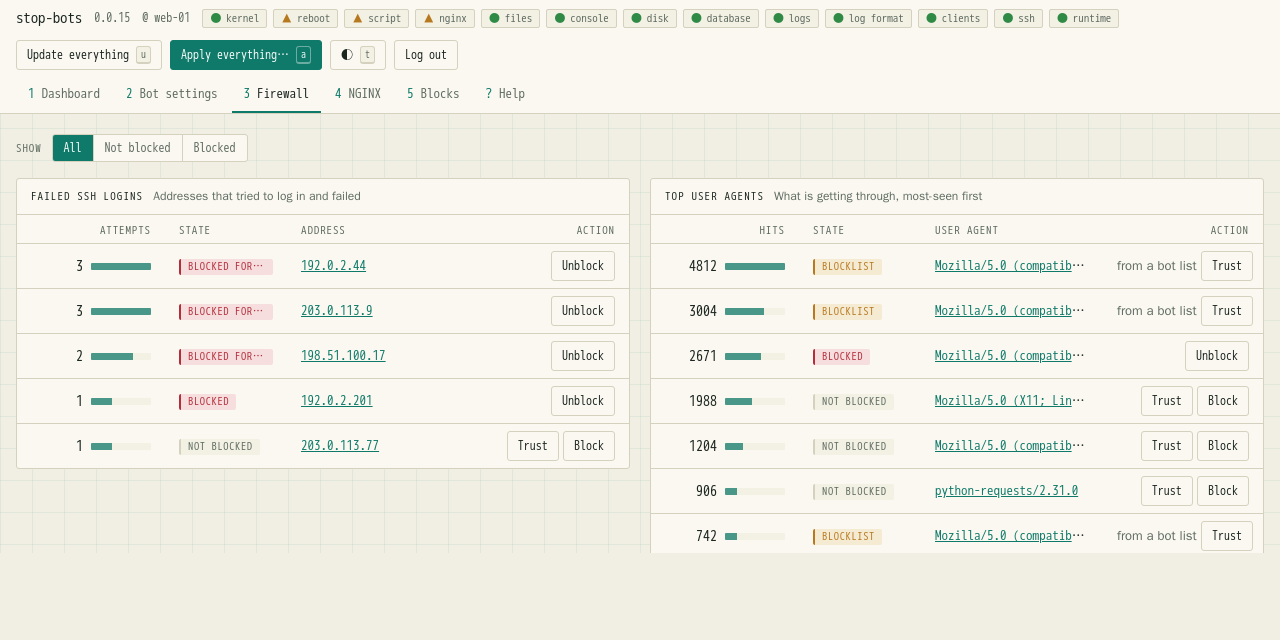
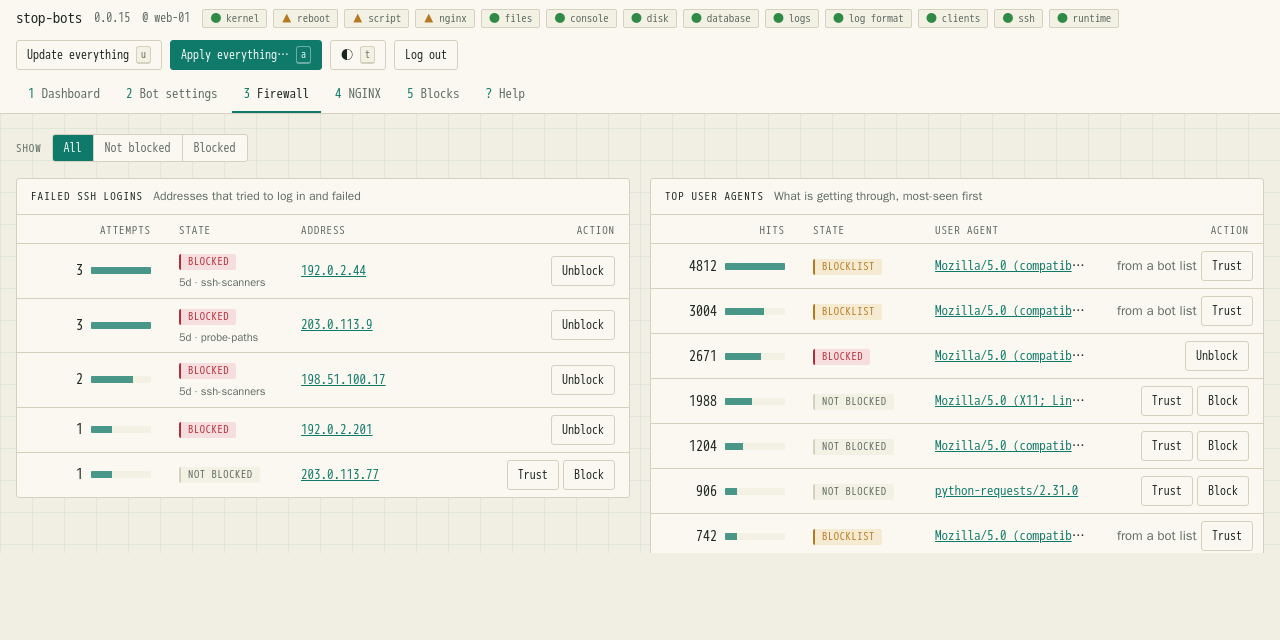
fix: time left on a block rounds to the nearest day or hour
It rounded down, so a five-day block read "4d" a minute after it was
made, beside a Dashboard saying the TTL was five days. Nearest, from
23½ hours up to days, never below an hour. list-firewall-rules had its
own copy of the old rounding; it now uses the same function as the
Firewall and Blocks screens. Screenshots regenerated.

Claude-Session: https://claude.ai/code/session_01FYYzG3aj21KaabkVCw8E9R

Changed region(s): [[0.0312, 0.375, 0.5, 0.7812]]

diff --git a/src/dynamic.rs b/src/dynamic.rs
@@ -504,21 +504,27 @@ pub fn attempts_evidence(count: u64) -> String {
 }
 
 /// Formats a future Unix timestamp `expires_at` as a short "Nd"/"Nh"
-/// relative string for a `RowStatus::Blocked`'s "until" text — same
-/// rounding convention as `main.rs::format_expiry` (that one isn't
-/// reachable from the library crate, hence this small local twin).
+/// duration for a `RowStatus::Blocked`'s "for" text, the Blocks screens
+/// and `list-firewall-rules`.
+///
+/// Rounded to the *nearest* whole day (from 23½ hours up) or hour, never
+/// below one hour. It used to round down, which made a five-day block
+/// read "4d" a minute after it was made — beside a Dashboard that said
+/// the TTL was five days.
 pub fn format_until(expires_at: i64) -> String {
     let now = std::time::SystemTime::now()
         .duration_since(std::time::UNIX_EPOCH)
         .unwrap_or_default()
         .as_secs() as i64;
-    let seconds_left = (expires_at - now).max(0);
-    let days = seconds_left / 86_400;
-    if days > 0 {
-        format!("{days}d")
+    format_duration_left(expires_at - now)
+}
+
+fn format_duration_left(seconds_left: i64) -> String {
+    let seconds_left = seconds_left.max(0);
+    if seconds_left >= 23 * 3_600 + 1_800 {
+        format!("{}d", ((seconds_left + 43_200) / 86_400).max(1))
     } else {
-        let hours = (seconds_left / 3_600).max(1);
-        format!("{hours}h")
+        format!("{}h", ((seconds_left + 1_800) / 3_600).max(1))
     }
 }
 
@@ -590,6 +596,22 @@ impl Live {
 #[cfg(test)]
 mod tests {
     use super::*;
+
+    #[test]
+    fn time_left_rounds_to_the_nearest_day_or_hour() {
+        let table = [
+            ("a five-day block a minute old", 5 * 86_400 - 60, "5d"),
+            ("just over three days", 3 * 86_400 + 100, "3d"),
+            ("three and a half days", 3 * 86_400 + 43_200, "4d"),
+            ("23h40m reads as a day", 23 * 3_600 + 2_400, "1d"),
+            ("five hours", 5 * 3_600, "5h"),
+            ("an imminent expiry", 30, "1h"),
+            ("already past", -10, "1h"),
+        ];
+        for (what, seconds, expected) in table {
+            assert_eq!(format_duration_left(seconds), expected, "{what}");
+        }
+    }
 
     #[test]
     fn a_typed_entry_is_an_address_only_if_it_is_spelled_like_one() {

diff --git a/src/main.rs b/src/main.rs
@@ -2271,21 +2271,14 @@ fn rule_line(rule: &FirewallRule, now: i64) -> String {
     )
 }
 
-/// Renders a firewall rule's `expires_at` (Unix seconds, already known to
-/// be in the future — anything at or past `now` would have been pruned
-/// before `list_firewall_rules` returned it) as a short "expires in ..."
-/// string for `list-firewall-rules`. Rounds down to whole days once at
-/// least one has passed, otherwise whole hours — precision the admin
-/// scanning a rule list actually needs, not a countdown clock.
+/// Renders a firewall rule's `expires_at` as "expires in 5d" for
+/// `list-firewall-rules`, rounded the same way as every other screen that
+/// shows time left ([`stop_bots::dynamic::format_until`]).
 fn format_expiry(expires_at: i64) -> String {
-    let seconds_left = (expires_at - now_secs()).max(0);
-    let days = seconds_left / 86_400;
-    if days > 0 {
-        format!("expires in {days}d")
-    } else {
-        let hours = (seconds_left / 3_600).max(1);
-        format!("expires in {hours}h")
-    }
+    format!(
+        "expires in {}",
+        stop_bots::dynamic::format_until(expires_at)
+    )
 }
 
 fn now_secs() -> i64 {
@@ -4997,7 +4990,7 @@ mod tests {
     }
 
     #[test]
-    fn format_expiry_rounds_to_whole_days_once_at_least_one_has_passed() {
+    fn format_expiry_rounds_to_the_nearest_whole_day() {
         let expires_at = now_secs() + 3 * 86_400 + 100;
         assert_eq!(format_expiry(expires_at), "expires in 3d");
     }

diff --git a/CHANGELOG.md b/CHANGELOG.md
@@ -175,7 +175,10 @@ covered: it can change in any release. `RELEASING.md` says what counts as breaki
 - `render-firewall --out` no longer suggests running the file by hand, which would
   not survive a reboot; it points at `render-firewall --apply`.
 - The web Firewall page: a `BLOCKED` tag naming its detector no longer spills over
-  the address beside it. It is cut off at its column, with the whole tag as a tooltip.
+  the address beside it. The tag says `BLOCKED`, with the time left and the detector
+  on a line under it.
+- Time left on a block is rounded to the nearest day or hour. A five-day block read
+  "4d" a minute after it was made.
 
 - Messages that named the wrong key: "render the firewall (f)" (the key is `F`,
   and `a` applies) and "press s, then r" (NGINX is `n`).
